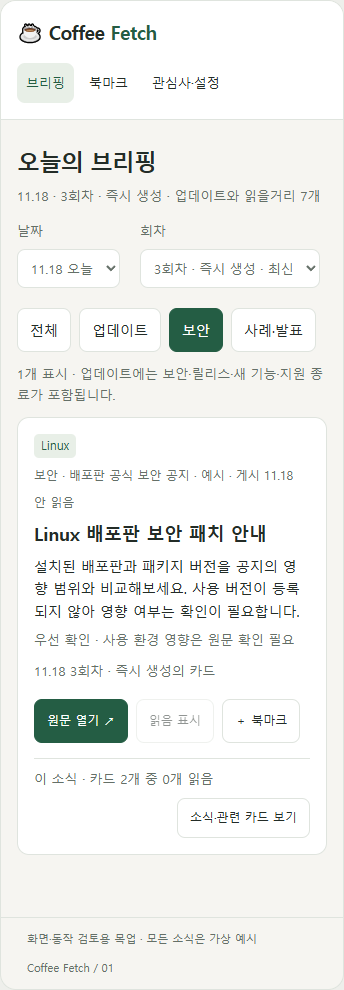
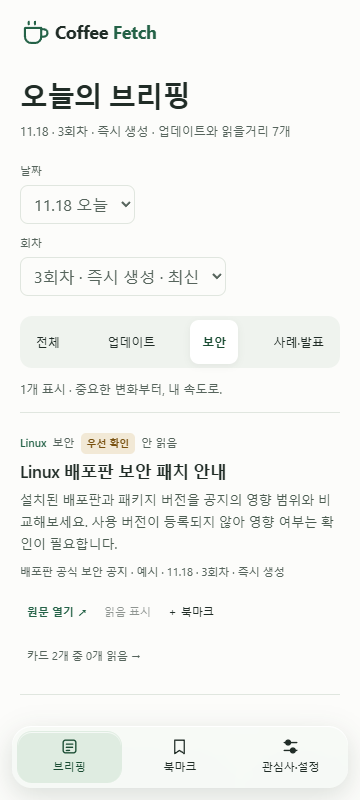
Refine briefing mockup and document design references

diff --git a/docs/product/mockup/index.html b/docs/product/mockup/index.html
@@ -1,12 +1,22 @@
-<!doctype html><html lang="ko"><head><meta charset="utf-8"><meta name="viewport" content="width=device-width,initial-scale=1"><title>Coffee Fetch 목업</title><style>:root{color-scheme:light}body{margin:0;padding:24px;background:#eeefeb}#coffee-fetch-flow{max-width:1024px;margin:auto}button{cursor:pointer}@media(max-width:540px){body{padding:8px}}</style></head><body><div id="coffee-fetch-flow" aria-label="Coffee Fetch 화면 목업">
-<style>
-#coffee-fetch-flow{--cf-bg:light-dark(#f6f5f1,#191b1a);--cf-paper:light-dark(#fff,#232624);--cf-ink:light-dark(#232c27,#e6ece7);--cf-dim:light-dark(#657068,#a5b2a9);--cf-line:light-dark(#dfe4de,#3d453f);--cf-green:light-dark(#245d44,#a7d8b8);--cf-on:light-dark(#fff,#193724);--cf-soft:light-dark(#e8efe7,#2c3b30);font:14px/1.6 system-ui,sans-serif;color:var(--cf-ink);background:var(--cf-bg);border:1px solid var(--cf-line);border-radius:16px;overflow:hidden}
-#coffee-fetch-flow *{box-sizing:border-box}#coffee-fetch-flow button,#coffee-fetch-flow select,#coffee-fetch-flow input{font:inherit;color:inherit}#coffee-fetch-flow button{background:var(--cf-paper);border:1px solid var(--cf-line);border-radius:8px;padding:8px 12px;min-height:40px}#coffee-fetch-flow button:hover{border-color:var(--cf-green)}#coffee-fetch-flow button:disabled{opacity:.5}#coffee-fetch-flow button.cf-primary{background:var(--cf-green);color:var(--cf-on);border-color:var(--cf-green)}#coffee-fetch-flow h1{font-size:27px;letter-spacing:-1px;line-height:1.3;margin:5px 0 9px;font-weight:600}#coffee-fetch-flow h2{font-size:18px;line-height:1.5;margin:8px 0;font-weight:600}#coffee-fetch-flow p{margin:0}#coffee-fetch-flow .cf-muted{color:var(--cf-dim);font-size:13px}#coffee-fetch-flow header{padding:18px 26px;border-bottom:1px solid var(--cf-line);display:flex;align-items:center;justify-content:space-between;gap:16px;flex-wrap:wrap;background:var(--cf-paper)}#coffee-fetch-flow .cf-brand{font-weight:650;font-size:19px;letter-spacing:-.5px}#coffee-fetch-flow .cf-brand span{color:var(--cf-green)}#coffee-fetch-flow nav{display:flex;flex-wrap:wrap;gap:6px}#coffee-fetch-flow nav button{border-color:transparent;background:transparent}#coffee-fetch-flow nav button[aria-current="page"]{background:var(--cf-soft);color:var(--cf-green)}#coffee-fetch-flow main{max-width:790px;margin:auto;padding:30px 26px 22px;min-height:540px}#coffee-fetch-flow .cf-topline{display:flex;align-items:center;justify-content:space-between;gap:14px;flex-wrap:wrap;margin-bottom:20px}#coffee-fetch-flow select,#coffee-fetch-flow input[type=time]{background:var(--cf-paper);border:1px solid var(--cf-line);border-radius:8px;padding:9px;max-width:100%}#coffee-fetch-flow .cf-overline{font-size:11px;letter-spacing:1.8px;font-weight:600;color:var(--cf-green)}#coffee-fetch-flow .cf-feed{display:grid;gap:13px}#coffee-fetch-flow article{padding:20px;background:var(--cf-paper);border:1px solid var(--cf-line);border-radius:12px}#coffee-fetch-flow .cf-meta{display:flex;gap:8px;align-items:center;flex-wrap:wrap;color:var(--cf-dim);font-size:12px}#coffee-fetch-flow .cf-tag{background:var(--cf-soft);color:var(--cf-green);border-radius:5px;padding:2px 7px}#coffee-fetch-flow .cf-status{margin-left:auto}#coffee-fetch-flow .cf-actions{display:flex;align-items:center;gap:8px;flex-wrap:wrap;margin-top:17px}#coffee-fetch-flow .cf-actions button{font-size:12px;min-height:36px}#coffee-fetch-flow .cf-actions button:last-child{margin-left:auto}#coffee-fetch-flow .cf-note{padding:12px 14px;border-left:3px solid var(--cf-green);background:var(--cf-soft);margin-bottom:18px;font-size:13px}#coffee-fetch-flow fieldset{border:0;padding:0;margin:0 0 26px}#coffee-fetch-flow legend{font-weight:600;margin-bottom:10px}#coffee-fetch-flow .cf-options{display:flex;flex-wrap:wrap;gap:8px}#coffee-fetch-flow .cf-options label{display:flex;gap:7px;align-items:center;border:1px solid var(--cf-line);background:var(--cf-paper);padding:8px 12px;border-radius:8px}#coffee-fetch-flow input{accent-color:var(--cf-green)}#coffee-fetch-flow .cf-fields{display:flex;gap:20px;flex-wrap:wrap}#coffee-fetch-flow .cf-fields label{display:grid;gap:7px}#coffee-fetch-flow .cf-empty{padding:48px 18px;text-align:center;background:var(--cf-paper);border-radius:12px}#coffee-fetch-flow footer{padding:12px 26px;border-top:1px solid var(--cf-line);display:flex;gap:12px;justify-content:space-between;flex-wrap:wrap;font-size:11px;color:var(--cf-dim)}#coffee-fetch-flow .cf-toast{color:var(--cf-green);min-height:26px;margin-top:14px;font-size:13px}#coffee-fetch-flow .cf-preview{padding:20px;border:1px dashed var(--cf-green);border-radius:12px;background:var(--cf-paper);margin-bottom:18px}#coffee-fetch-flow .cf-preview h2{margin-top:0}#coffee-fetch-flow[data-density="compact"] article{padding:13px 18px}#coffee-fetch-flow[data-density="compact"] .cf-actions{margin-top:9px}
-@media(max-width:540px){#coffee-fetch-flow header{padding:16px}#coffee-fetch-flow main{padding:22px 16px}#coffee-fetch-flow nav{width:100%}#coffee-fetch-flow nav button{padding:8px;font-size:13px}#coffee-fetch-flow article{padding:16px}#coffee-fetch-flow h1{font-size:23px}#coffee-fetch-flow .cf-status{margin-left:0}#coffee-fetch-flow .cf-actions button{min-height:44px}#coffee-fetch-flow .cf-actions button:last-child{margin-left:0}}
-#coffee-fetch-flow .cf-filters{display:flex;gap:8px;flex-wrap:wrap}#coffee-fetch-flow .cf-filters button[aria-pressed="true"]{background:var(--cf-green);color:var(--cf-on)}#coffee-fetch-flow :focus-visible{outline:2px solid var(--cf-green);outline-offset:3px}#coffee-fetch-flow .cf-filters button{min-height:44px}
-</style>
-<header><div class="cf-brand">☕ Coffee <span>Fetch</span></div><nav aria-label="주 메뉴"><button data-page="brief" aria-current="page">브리핑</button><button data-page="saved">북마크</button><button data-page="settings">관심사·설정</button></nav></header>
-<main><div id="cf-content"></div><div class="cf-toast" id="cf-toast" role="status" aria-live="polite"></div></main>
+<!doctype html><html lang="ko"><head><meta charset="utf-8"><meta name="viewport" content="width=device-width,initial-scale=1"><title>Coffee Fetch 목업</title><style>
+:root{color-scheme:light}body{margin:0;padding:24px;background:#e7ece7;font-family:Inter,-apple-system,BlinkMacSystemFont,"Segoe UI","Malgun Gothic",sans-serif}
+#coffee-fetch-flow{--cf-bg:#eef2ee;--cf-paper:#fcfcfa;--cf-ink:#202c26;--cf-dim:#56645c;--cf-line:#e0e6df;--cf-green:#246247;--cf-on:#fff;--cf-soft:#e4eee6;--cf-glass:rgba(249,252,249,.82);display:grid;grid-template-columns:196px minmax(0,1fr);max-width:1200px;margin:auto;min-height:840px;background:var(--cf-bg);color:var(--cf-ink);border-radius:24px;box-shadow:0 16px 56px #233a2614;font:14px/1.65 Inter,-apple-system,BlinkMacSystemFont,"Segoe UI","Malgun Gothic",sans-serif;isolation:isolate;overflow:clip}
+#coffee-fetch-flow *{box-sizing:border-box}#coffee-fetch-flow button,#coffee-fetch-flow select,#coffee-fetch-flow input{font:inherit;color:inherit}#coffee-fetch-flow button{cursor:pointer;border:1px solid transparent;background:transparent;border-radius:9px;min-height:36px;padding:6px 10px;touch-action:manipulation}#coffee-fetch-flow button:hover{background:var(--cf-soft)}#coffee-fetch-flow button:active{background:#d8e7dc}#coffee-fetch-flow button:disabled{opacity:.5;cursor:default}#coffee-fetch-flow :focus-visible{outline:2px solid var(--cf-green);outline-offset:3px}#coffee-fetch-flow ::selection{background:#cce4d3;color:#183d29}
+#coffee-fetch-flow header{grid-column:1;grid-row:1 / 3;padding:32px 16px;background:var(--cf-glass);backdrop-filter:blur(24px) saturate(130%);border-right:1px solid #fff;display:flex;flex-direction:column;gap:30px;align-items:stretch}
+#coffee-fetch-flow .cf-brand{display:flex;align-items:center;gap:9px;font-weight:650;letter-spacing:-.02em;font-size:18px;white-space:nowrap}#coffee-fetch-flow .cf-logo{width:30px;height:30px;color:var(--cf-green);flex-shrink:0}#coffee-fetch-flow .cf-brand span{color:var(--cf-green)}#coffee-fetch-flow nav{display:grid;gap:6px}#coffee-fetch-flow nav button{display:flex;align-items:center;gap:10px;text-align:left;padding:11px 12px;font-size:13px;font-weight:500;min-height:44px}#coffee-fetch-flow nav svg{width:18px;height:18px;flex:none}#coffee-fetch-flow nav [aria-current="page"]{background:#dfece1;color:#194b32;box-shadow:inset 0 1px 0 #ffffffb3}
+#coffee-fetch-flow .cf-side-section{border-top:1px solid var(--cf-line);padding:24px 12px 0}#coffee-fetch-flow .cf-side-section h2{font-size:12px;margin:0 0 14px;color:var(--cf-dim);font-weight:500}#coffee-fetch-flow .cf-side-section ul{list-style:none;margin:0;padding:0;color:var(--cf-dim);font-size:13px}#coffee-fetch-flow .cf-side-section li{padding:6px 0}#coffee-fetch-flow .cf-side-note{margin-top:auto;padding:24px 12px 0;color:var(--cf-dim);font-size:11px}
+#coffee-fetch-flow main{grid-column:2;min-width:0;padding:38px 36px 20px;background:var(--cf-paper);border-radius:22px 0 0 0;margin-top:12px}#coffee-fetch-flow h1{font-size:30px;line-height:1.3;letter-spacing:-.03em;margin:0 0 8px;font-weight:650;text-wrap:balance}#coffee-fetch-flow h2{font-size:17px;line-height:1.5;letter-spacing:-.02em;font-weight:600;margin:5px 0}#coffee-fetch-flow p{margin:0}#coffee-fetch-flow .cf-muted{font-size:12px;color:var(--cf-dim)}#coffee-fetch-flow .cf-topline{display:flex;justify-content:space-between;align-items:center;gap:16px;flex-wrap:wrap;margin-bottom:25px}
+#coffee-fetch-flow .cf-fields{display:flex;gap:10px;flex-wrap:wrap}#coffee-fetch-flow .cf-fields label{display:grid;gap:5px}#coffee-fetch-flow .cf-topline .cf-fields{padding:8px 10px;background:var(--cf-glass);border-radius:16px;box-shadow:0 3px 16px #223f2910,inset 0 1px 0 #fff;backdrop-filter:blur(18px)}#coffee-fetch-flow select,#coffee-fetch-flow input[type=time]{max-width:100%;background:var(--cf-paper);border:1px solid var(--cf-line);padding:7px 9px;border-radius:8px;min-height:36px;font-size:13px}#coffee-fetch-flow .cf-topline label{font-size:11px}#coffee-fetch-flow .cf-topline .cf-fields label{min-width:0}
+#coffee-fetch-flow .cf-filters{display:flex;gap:4px;flex-wrap:wrap;padding:4px;width:fit-content;background:#eff3ee;border-radius:12px}#coffee-fetch-flow .cf-filters button{font-size:12px;padding:6px 16px}#coffee-fetch-flow .cf-filters button[aria-pressed=true]{background:#fff;color:#194b32;box-shadow:0 2px 7px #243e2612;font-weight:600}
+#coffee-fetch-flow .cf-feed{display:grid;gap:0}#coffee-fetch-flow article{padding:20px 0;border-bottom:1px solid var(--cf-line);background:var(--cf-paper)}#coffee-fetch-flow article:first-child{border-top:1px solid var(--cf-line)}#coffee-fetch-flow .cf-meta{display:flex;align-items:center;gap:8px;flex-wrap:wrap;font-size:11px;color:var(--cf-dim)}#coffee-fetch-flow .cf-tag{font-weight:600;color:var(--cf-green)}#coffee-fetch-flow .cf-status{margin-left:auto;white-space:nowrap}#coffee-fetch-flow .cf-priority{font-size:10px;font-weight:600;border-radius:5px;padding:2px 6px;background:#f2e9d6;color:#78500e}#coffee-fetch-flow article>p{font-size:13px;line-height:1.7;color:#4b5c51;max-width:74ch}#coffee-fetch-flow .cf-card-foot{display:flex;gap:8px;align-items:center;flex-wrap:wrap;margin-top:10px}#coffee-fetch-flow .cf-card-foot .cf-actions{margin:0;display:flex;gap:2px;align-items:center;flex-wrap:wrap}#coffee-fetch-flow .cf-card-foot button{font-size:11px;min-height:32px;padding:4px 8px}#coffee-fetch-flow button.cf-primary{color:var(--cf-green);font-weight:600}#coffee-fetch-flow .cf-card-foot .cf-related{margin-left:auto;color:var(--cf-dim);font-weight:400}#coffee-fetch-flow .cf-card-foot button[aria-pressed=true]{background:var(--cf-soft);color:#194b32}#coffee-fetch-flow .cf-round-note{font-size:11px;color:var(--cf-dim);margin-top:8px}#coffee-fetch-flow .cf-actions{display:flex;gap:8px;align-items:center;flex-wrap:wrap;margin-top:18px}
+#coffee-fetch-flow .cf-note{padding:16px 18px;background:#eff4ed;border-radius:12px;margin:0 0 20px;font-size:13px}#coffee-fetch-flow .cf-note h2{margin-top:0}#coffee-fetch-flow .cf-preview{padding:18px;background:#eef4ee;border:1px solid #c7d8c9;border-radius:12px;margin-bottom:20px;font-size:13px}#coffee-fetch-flow fieldset{border:0;margin:0 0 30px;padding:0}#coffee-fetch-flow legend{font-size:14px;font-weight:600;margin-bottom:12px}#coffee-fetch-flow .cf-options{display:flex;gap:8px;flex-wrap:wrap}#coffee-fetch-flow .cf-options label{display:flex;gap:8px;align-items:center;border:1px solid var(--cf-line);border-radius:9px;padding:9px 12px;background:#fff;font-size:13px}#coffee-fetch-flow .cf-options label:has(:checked){border-color:#a6c6ad;background:#f0f6ef}#coffee-fetch-flow input{accent-color:var(--cf-green)}#coffee-fetch-flow form{max-width:680px}#coffee-fetch-flow form>button.cf-primary{background:var(--cf-green);color:var(--cf-on);padding:10px 22px}#coffee-fetch-flow .cf-empty{text-align:center;padding:50px 20px;color:var(--cf-dim)}#coffee-fetch-flow .cf-empty button{margin-top:16px}#coffee-fetch-flow .cf-toast{font-size:12px;color:var(--cf-green);min-height:22px;margin-top:12px}#coffee-fetch-flow footer{grid-column:2;display:flex;justify-content:space-between;gap:10px;flex-wrap:wrap;padding:14px 36px;background:var(--cf-paper);font-size:10px;color:var(--cf-dim)}#coffee-fetch-flow .cf-skip{position:absolute;left:16px;top:-80px;padding:10px;background:white;z-index:10}#coffee-fetch-flow .cf-skip:focus{top:16px}
+@media(max-width:850px){body{padding:12px}#coffee-fetch-flow{grid-template-columns:164px minmax(0,1fr)}#coffee-fetch-flow header{padding:26px 10px}#coffee-fetch-flow .cf-brand{font-size:16px;gap:5px}#coffee-fetch-flow main{padding:28px 24px 18px}#coffee-fetch-flow .cf-topline{align-items:flex-start}#coffee-fetch-flow h1{font-size:27px}}
+@media(max-width:600px){body{padding:0;background:var(--cf-paper,#fcfcfa)}#coffee-fetch-flow{display:block;border-radius:0;min-height:100vh;box-shadow:none;overflow:visible}#coffee-fetch-flow header{padding:18px 20px;background:var(--cf-paper);backdrop-filter:none;border:0;display:block}#coffee-fetch-flow .cf-brand{font-size:18px}#coffee-fetch-flow .cf-side-section,#coffee-fetch-flow .cf-side-note{display:none}#coffee-fetch-flow nav{position:fixed;bottom:max(12px,env(safe-area-inset-bottom));left:12px;right:12px;display:flex;justify-content:space-around;padding:5px;border-radius:20px;background:rgba(246,250,246,.92);box-shadow:0 8px 28px #1e392628,inset 0 1px 0 #fff;backdrop-filter:blur(20px) saturate(150%);z-index:5}#coffee-fetch-flow nav button{flex:1;justify-content:center;flex-direction:column;gap:2px;font-size:11px;padding:5px 6px;min-height:52px;border-radius:15px}#coffee-fetch-flow nav svg{width:19px;height:19px}#coffee-fetch-flow main{margin:0;padding:12px 20px 24px;border-radius:0}#coffee-fetch-flow h1{font-size:28px}#coffee-fetch-flow .cf-topline{gap:20px;margin-bottom:20px}#coffee-fetch-flow .cf-topline .cf-fields{width:100%;padding:0;background:transparent;box-shadow:none;backdrop-filter:none}#coffee-fetch-flow .cf-filters{width:100%;justify-content:space-between}#coffee-fetch-flow .cf-filters button{padding:6px 11px;min-height:44px}#coffee-fetch-flow article{padding:20px 0}#coffee-fetch-flow h2{font-size:17px}#coffee-fetch-flow .cf-card-foot{gap:4px}#coffee-fetch-flow .cf-card-foot button{min-height:44px;font-size:11px;padding:6px}#coffee-fetch-flow .cf-card-foot .cf-related{margin-left:0;min-height:36px}#coffee-fetch-flow footer{padding:12px 20px 110px}#coffee-fetch-flow select,#coffee-fetch-flow input[type=time]{font-size:16px}#coffee-fetch-flow .cf-status{margin-left:0}#coffee-fetch-flow .cf-meta{gap:6px}#coffee-fetch-flow .cf-round-note{line-height:1.5}}
+@media(prefers-reduced-transparency:reduce){#coffee-fetch-flow header,#coffee-fetch-flow nav,#coffee-fetch-flow .cf-topline .cf-fields{background:#f1f5f0;backdrop-filter:none}}@supports not (backdrop-filter:blur(1px)){#coffee-fetch-flow header,#coffee-fetch-flow nav{background:#f1f5f0}}
+</style></head><body><div id="coffee-fetch-flow" aria-label="Coffee Fetch 화면 목업">
+
+<a class="cf-skip" href="#cf-main">본문으로 이동</a><header><div class="cf-brand"><svg class="cf-logo" viewBox="0 0 24 24" fill="none" stroke="currentColor" stroke-width="1.7" stroke-linecap="round" stroke-linejoin="round" aria-hidden="true"><path d="M4 8h13v7a5 5 0 0 1-5 5H9a5 5 0 0 1-5-5Z"/><path d="M17 9h2a3 3 0 0 1 0 6h-2M7 3v2m5-2v2"/></svg><div>Coffee <span>Fetch</span></div></div><nav aria-label="주 메뉴"><button data-page="brief" aria-current="page"><svg viewBox="0 0 24 24" fill="none" stroke="currentColor" stroke-width="1.7" stroke-linecap="round" stroke-linejoin="round" aria-hidden="true"><rect x="4" y="4" width="16" height="16" rx="3"/><path d="M8 9h8m-8 4h8m-8 4h4"/></svg>브리핑</button><button data-page="saved"><svg viewBox="0 0 24 24" fill="none" stroke="currentColor" stroke-width="1.7" stroke-linecap="round" stroke-linejoin="round" aria-hidden="true"><path d="M6 4h12v17l-6-4-6 4Z"/></svg>북마크</button><button data-page="settings"><svg viewBox="0 0 24 24" fill="none" stroke="currentColor" stroke-width="1.7" stroke-linecap="round" stroke-linejoin="round" aria-hidden="true"><path d="M4 7h16M4 17h16"/><circle cx="9" cy="7" r="3" fill="currentColor"/><circle cx="15" cy="17" r="3" fill="currentColor"/></svg>관심사·설정</button></nav><section class="cf-side-section"><h2>나의 관심 기술</h2><ul id="cf-side-topics"></ul></section><div class="cf-side-note">나를 위한 기술 브리핑<br>가상 데이터로 보는 목업</div></header>
+<main id="cf-main"><div id="cf-content"></div><div class="cf-toast" id="cf-toast" role="status" aria-live="polite"></div></main>
 <footer><span>화면·동작 검토용 목업 · 모든 소식은 가상 예시</span><span>Coffee Fetch / 01</span></footer>
 <script>(()=>{
 const root=document.getElementById('coffee-fetch-flow'), content=root.querySelector('#cf-content');
@@ -36,10 +46,10 @@ const related=sid=>state.cards.filter(c=>c.sid===sid);
 function progress(sid){const all=related(sid),n=all.filter(c=>status(c.id)==='읽음').length;return `카드 ${all.length}개 중 ${n}개 읽음${all.length&&n===all.length?' · 다 읽음':''}`;}
 function persist(){window.openai?.setWidgetState?.({modelContent:{screen:state.page,readingRule:'카드별 읽음, 소식별 읽은 카드 수 집계',round:state.round},privateContent:state})?.catch(()=>{});}
 function toast(t){root.querySelector('#cf-toast').textContent=t;}
-function card(x){const read=status(x.id),r=round(x.round);return `<article data-kind="${x.kind}" data-card="${x.id}"><div class="cf-meta"><span class="cf-tag">${x.tag}</span><span>${x.type} · ${x.source} · 게시 ${x.date}</span><span class="cf-status">${read==='읽음'?'✓ ':read==='읽는 중'?'◔ ':''}${read}</span></div><h2>${x.title}</h2><p>${x.summary}</p>${x.priority?'<p class="cf-muted" style="margin-top:8px">우선 확인 · 사용 환경 영향은 원문 확인 필요</p>':''}<p class="cf-muted" style="margin-top:10px">${r.date} ${escape(r.label)}의 카드</p><div class="cf-actions"><button class="cf-primary" data-action="open" data-id="${x.id}">원문 열기 ↗</button><button data-action="read" data-id="${x.id}" ${read==='안 읽음'?'disabled':''}>${read==='읽음'?'읽음 취소':'읽음 표시'}</button><button data-action="bookmark" data-id="${x.id}" aria-pressed="${state.bookmarks.includes(x.id)}">${state.bookmarks.includes(x.id)?'✓ 북마크됨':'＋ 북마크'}</button></div><div style="border-top:1px solid var(--cf-line);margin-top:15px;padding-top:10px;display:flex;gap:8px;align-items:center;flex-wrap:wrap"><span class="cf-muted">이 소식 · ${progress(x.sid)}</span><button data-action="news" data-id="${x.sid}" style="margin-left:auto;font-size:12px">소식·관련 카드 보기</button></div></article>`;}
-function render(){root.dataset.density=ui.density;root.querySelectorAll('[data-page]').forEach(b=>{if(b.dataset.page===state.page)b.setAttribute('aria-current','page');else b.removeAttribute('aria-current');});
+function card(x){const read=status(x.id),r=round(x.round);return `<article data-kind="${x.kind}" data-card="${x.id}"><div class="cf-meta"><span class="cf-tag">${x.tag}</span><span>${x.type}</span>${x.priority?'<span class="cf-priority">우선 확인</span>':''}<span class="cf-status">${read==='읽음'?'✓ ':read==='읽는 중'?'◔ ':''}${read}</span></div><h2>${x.title}</h2><p>${x.summary}</p><div class="cf-round-note">${x.source} · ${x.date} · ${escape(r.label)}</div><div class="cf-card-foot"><div class="cf-actions"><button class="cf-primary" data-action="open" data-id="${x.id}">원문 열기 ↗</button><button data-action="read" data-id="${x.id}" ${read==='안 읽음'?'disabled':''}>${read==='읽음'?'읽음 취소':'읽음 표시'}</button><button data-action="bookmark" data-id="${x.id}" aria-pressed="${state.bookmarks.includes(x.id)}">${state.bookmarks.includes(x.id)?'✓ 북마크됨':'＋ 북마크'}</button></div><button class="cf-related" data-action="news" data-id="${x.sid}" aria-label="소식·관련 카드 보기">${progress(x.sid)} →</button></div></article>`;}
+function render(){root.dataset.density=ui.density;root.querySelector('#cf-side-topics').innerHTML=state.topics.map(t=>`<li>${escape(t)}</li>`).join('');root.querySelectorAll('[data-page]').forEach(b=>{if(b.dataset.page===state.page)b.setAttribute('aria-current','page');else b.removeAttribute('aria-current');});
 if(state.page==='settings'){
-content.innerHTML=`<div class="cf-topline"><div><h1>관심사·설정</h1><p class="cf-muted">관심 기술의 업데이트와 읽을거리를 한곳에서.</p></div></div><form id="cf-settings"><fieldset><legend>관심 분야·도구</legend><div class="cf-options">${['IT','DevOps','Cloud','AI','Observability','Linux','AWS','Kubernetes','OpenTelemetry','Prometheus','Grafana','Python'].map(t=>`<label><input type="checkbox" name="topic" value="${t}" ${state.topics.includes(t)?'checked':''}>${t}</label>`).join('')}</div></fieldset><fieldset><legend>브리핑 받기</legend><div class="cf-fields"><label>주기<select name="period">${['매일','평일','매주'].map(p=>`<option ${state.period===p?'selected':''}>${p}</option>`).join('')}</select></label><label>시각<input type="time" name="time" value="${escape(state.time)}" required></label><label>기본으로 펼칠 분량<select name="amount">${['3','5','10'].map(n=>`<option value="${n}" ${state.amount===n?'selected':''}>우선 ${n}개</option>`).join('')}</select></label></div></fieldset><fieldset><legend>변경한 관심사 적용</legend><label><input type="radio" name="apply" value="next" checked> 다음 브리핑부터</label><p class="cf-muted">현재 회차는 그대로 유지합니다.</p><label style="display:block;margin-top:12px"><input type="radio" name="apply" value="now"> 지금 적용</label><p class="cf-muted">새 회차를 만들고 표시합니다. 이전 회차·읽기 기록·북마크는 남습니다.</p></fieldset><button class="cf-primary" type="submit">설정 저장</button></form>`;return;}
+content.innerHTML=`<div class="cf-topline"><div><h1>관심사·설정</h1><p class="cf-muted">관심 기술의 업데이트와 읽을거리를 한곳에서.</p></div></div><form id="cf-settings" autocomplete="off"><fieldset><legend>관심 분야·도구</legend><div class="cf-options">${['IT','DevOps','Cloud','AI','Observability','Linux','AWS','Kubernetes','OpenTelemetry','Prometheus','Grafana','Python'].map(t=>`<label><input type="checkbox" name="topic" value="${t}" ${state.topics.includes(t)?'checked':''}>${t}</label>`).join('')}</div></fieldset><fieldset><legend>브리핑 받기</legend><div class="cf-fields"><label>주기<select name="period">${['매일','평일','매주'].map(p=>`<option ${state.period===p?'selected':''}>${p}</option>`).join('')}</select></label><label>시각<input type="time" name="time" value="${escape(state.time)}" required></label><label>기본으로 펼칠 분량<select name="amount">${['3','5','10'].map(n=>`<option value="${n}" ${state.amount===n?'selected':''}>우선 ${n}개</option>`).join('')}</select></label></div></fieldset><fieldset><legend>변경한 관심사 적용</legend><label><input type="radio" name="apply" value="next" checked> 다음 브리핑부터</label><p class="cf-muted">현재 회차는 그대로 유지합니다.</p><label style="display:block;margin-top:12px"><input type="radio" name="apply" value="now"> 지금 적용</label><p class="cf-muted">새 회차를 만들고 표시합니다. 이전 회차·읽기 기록·북마크는 남습니다.</p></fieldset><button class="cf-primary" type="submit">설정 저장</button></form>`;return;}
 let title='',sub='',controls='',body='';
 if(state.page==='news'){
 const src=sources.find(s=>s.id===state.news);title='소식과 관련 카드';sub=progress(src.id);
@@ -56,7 +66,7 @@ const limit=r.limit||all.length, base=all.slice(0,limit), hiddenUpdates=all.slic
 const visible=(state.filter==='all'&&!expanded?base:all).filter(matches);
 body=(state.pending?'<div class="cf-note">관심사 변경을 저장했습니다. 다음 브리핑부터 적용됩니다.</div>':'')+
 `<div class="cf-filters" role="group" aria-label="소식 유형">${[['all','전체'],['updates','업데이트'],['security','보안'],['stories','사례·발표']].map(([v,label])=>`<button data-action="filter" data-id="${v}" aria-pressed="${state.filter===v}">${label}</button>`).join('')}</div>
-<p class="cf-muted" style="margin:12px 0" role="status">${state.filter==='all'&&!expanded?`우선 ${visible.length}개 / 이번 회차 ${all.length}개`:`${visible.length}개 표시`} · 업데이트에는 보안·릴리스·새 기능·지원 종료가 포함됩니다.</p>
+<p class="cf-muted" style="margin:12px 0" role="status">${state.filter==='all'&&!expanded?`우선 ${visible.length}개 / 이번 회차 ${all.length}개`:`${visible.length}개 표시`} · 중요한 변화부터, 내 속도로.</p>
 <div class="cf-feed">${visible.map(card).join('')||'<div class="cf-empty"><h2>이 유형의 소식이 없습니다</h2><p>다른 유형을 선택하거나 전체 소식을 확인하세요.</p><button data-action="filter" data-id="all">전체 소식 보기</button></div>'}</div>
 ${state.filter==='all'&&!expanded&&all.length>limit?`<div class="cf-actions">${hiddenUpdates?`<button data-action="filter" data-id="updates">업데이트 더 보기 · ${hiddenUpdates}개 접힘</button>`:''}<button data-action="expand">이번 회차 전체 보기 · ${all.length}개</button></div>`:''}`;
 }

diff --git a/docs/product/design.md b/docs/product/design.md
@@ -1,0 +1,52 @@
+# Coffee Fetch 디자인 기준
+
+2026-11-18 · 제품 동작은 [제품 정의](definition.md), 시각 기준은 이 문서와 [목업](mockup/index.html)에서 관리합니다.
+
+## 방향
+
+Feedly처럼 빠르게 훑는 기술 소식 목록에 절제된 Liquid Glass 느낌을 더합니다. 브리핑은 읽기(Read), 설정은 작업(Operate) 중심입니다. 큰 장식이나 카드 테두리보다 제목·요약·출처의 위계가 먼저 보이게 합니다.
+
+- PC: 왼쪽 메뉴와 관심 기술 목록, 오른쪽 읽기 영역. 개별 카드는 얇은 구분선으로 나눕니다.
+- 모바일: 위쪽 브랜드, 아래 고정 메뉴. 본문과 메뉴가 겹치지 않도록 하단 여백을 둡니다.
+- 유리 소재: 탐색 메뉴와 날짜·회차 조작부에만 사용합니다. 소식 본문은 불투명한 배경을 유지합니다. 웹의 반투명·블러 표현이며 Apple의 네이티브 광학 효과를 그대로 구현한 것은 아닙니다.
+- 정보 순서: 기술·유형·우선 확인 → 제목 → 요약 → 출처·날짜·회차 → 원문·읽음·북마크·관련 카드.
+- 기능: 유형 필터, 과거 회차, 카드별 읽음·북마크, 소식별 읽기 집계를 유지합니다. 예시 자료는 가상임을 표시합니다.
+
+## 반복 사용할 값
+
+| 요소 | 기준 |
+|---|---|
+| 본문 배경 / 글자 | `#fcfcfa` / `#202c26` |
+| 보조 글자 / 구분선 | `#56645c` / `#e0e6df` |
+| 강조 / 선택 배경 | `#246247` / `#e4eee6` |
+| 우선 확인 | 옅은 황토색 배경과 텍스트. 색만으로 의미를 전달하지 않음 |
+| 글꼴 | 시스템 sans-serif, 한국어는 맑은 고딕 등 시스템 대체 글꼴. 외부 폰트 다운로드 없음 |
+| 크기 | PC 화면 제목 30px, 소식 제목 17px, 요약 13px, 보조 정보 11–12px |
+| 목록 간격 | 소식 상하 20px, 제목과 요약은 가까이 배치 |
+| 화면 폭 | 최대 1200px, PC 사이드바 196px, 600px 이하 하단 메뉴 |
+
+## 조작과 접근성
+
+| 조작 | 적용 |
+|---|---|
+| 유형 필터·화면 전환 | 반복 사용하므로 애니메이션 없이 즉시 전환. 선택 상태와 키보드 포커스 표시 |
+| 읽음·북마크 | 명시적 버튼과 상태 텍스트, 처리 결과 알림 |
+| 모바일 메뉴·주요 카드 동작 | 44px 이상 터치 영역, 하단 안전 영역 고려 |
+| 투명 효과 | 지원되지 않거나 투명도 감소 설정이면 불투명 배경 |
+| 설정 | 입력에 레이블, 저장 버튼은 흰 글자와 녹색 배경 |
+
+## 참고 사이트
+
+아래 공식 자료를 2026-11-18 확인했습니다. 이후 디자인 변경 시 재사용합니다.
+
+| 자료 | 참고한 내용 |
+|---|---|
+| [Feedly News Reader](https://feedly.com/news-reader) | 사이드바, 오늘의 피드, 빠른 제목 훑기와 목록 위계 |
+| [Reeder](https://reederapp.com/) | 하나의 타임라인, 필터와 저장 중심 정보 구조. 기능 설명 참고 |
+| [Apple HIG — Materials](https://developer.apple.com/design/human-interface-guidelines/materials) | Liquid Glass는 탐색·조작 계층에 제한하고 콘텐츠 읽기 영역과 구분 |
+| [Apple 새 소프트웨어 디자인 소개](https://www.apple.com/newsroom/2025/06/apple-introduces-a-delightful-and-elegant-new-software-design/) | 반투명 소재와 둥근 조작부의 시각 방향 |
+| [Vercel Web Interface Guidelines](https://github.com/vercel-labs/web-interface-guidelines/blob/main/command.md) | 포커스, 레이블, 터치, 반응형 구현 검토 |
+
+## 검증과 범위
+
+Windows Edge에서 PC·모바일 캡처를 확인했습니다. 320·360·768·1100px에서 주요 화면 가로 넘침, 360px 하단 메뉴 위치, 기존 필터·회차·읽음·북마크·재생성 동작 검사를 통과했습니다. 실제 iOS Safari와 실기기 사용성은 아직 검증하지 않았습니다. 현재 결과물은 목업이며 수집·서버·영속 저장 구현은 포함하지 않습니다.

diff --git a/docs/logs/work-log.md b/docs/logs/work-log.md
@@ -140,3 +140,11 @@
 - 디자인 검토: 기존 표현 유지. 필터는 자주 쓰는 조작이라 애니메이션을 추가하지 않고, 선택 상태·포커스를 표시. 전체 시각 디자인 변경은 이번 작업 범위 아님.
 - 자료: 목업은 가상 예시. 공식 업데이트 실수집·영향 판정 기능은 아직 구현하지 않음.
 - 실제 집중 시간: 미측정. WSL 접근 권한 확인 후 기존 저장소와 캡처 도구를 재사용.
+
+### 2026-11-18 / 목업 디자인 개선
+
+- 결과: 디자인 스킬로 Feedly 구조와 절제된 Liquid Glass 방향 반영. PC 사이드바·모바일 하단 메뉴, 목록 위계·색상·설정 화면 개선. 캡처 5개 갱신.
+- 자료: 디자인 기준 한 문서에 Feedly·Reeder·Apple 공식 레퍼런스와 재사용할 값을 보관. README·제품 정의에서 연결.
+- 검증: 기존 Playwright 동작 검사, 320·360·768·1100px 가로 넘침 검사 통과. 모바일 하단 메뉴 좌표 검사 추가. PC·모바일·설정 캡처 시각 확인.
+- 수정: 설정 저장 버튼 대비, 모바일 header의 backdrop-filter가 fixed 메뉴 위치에 미친 영향 해결. iOS Safari 실기기는 미검증.
+- 실제 집중 시간: 미측정. 병목: 반투명 효과의 레이아웃 부작용. 개선: 모바일 고정 메뉴 위치를 캡처 스크립트에서 검증.

diff --git a/docs/logs/token-usage.md b/docs/logs/token-usage.md
@@ -15,3 +15,5 @@
 | 2026-09-26 | 회차·카드별 읽음·소식 집계·북마크 정의 및 목업 갱신 | 547,519 tokens (편집 전 조회부터 종료 조회 시점까지·본 세션) |
 | 2026-09-26 | TypeScript·Python 선택과 구현 방향 기록 | 143,824 tokens (편집 전 조회부터 종료 조회 시점까지·본 세션) |
 | 2026-11-18 | 브리핑·기술 트래킹 통합 정의 및 목업 | 779,107 tokens (편집 전 조회부터 종료 조회 시점까지·본 세션) |
+
+| 2026-11-18 | 목업 디자인 개선·레퍼런스 정리 | 1,139,096 tokens (편집 전 조회부터 종료 조회 시점까지·본 세션, 사전 조사 제외) |

diff --git a/docs/product/definition.md b/docs/product/definition.md
@@ -32,6 +32,8 @@
 
 ## 화면과 동작
 
+2026-11-18 시각 개선: [디자인 기준·레퍼런스](design.md)에 따라 PC 사이드바, 모바일 하단 메뉴, 구분선 중심 목록과 제한된 유리 효과를 적용했습니다.
+
 2026-09-23 대화에서 검토한 목업을 첫 버전의 작업 기준으로 사용합니다. 화면 배치·스타일·메뉴 구성은 변경 가능한 초안입니다. 아래 동작을 유지하면서 화면 구성을 바꿀 수 있습니다. 목업 소식은 가상 예시이며 실제 수집·요약 품질을 검증한 결과는 아닙니다.
 
 ### 1. 브리핑

diff --git a/README.md b/README.md
@@ -30,6 +30,7 @@
 | 위치 | 역할 |
 |---|---|
 | [제품 정의](docs/product/definition.md) | 현재 목적·기능 범위·결정 |
+| [디자인 기준](docs/product/design.md) | 화면 스타일·조작 원칙·디자인 레퍼런스 |
 | [참고 사이트](docs/references/sites.md) | 다시 사용할 조사 출처 |
 | [행사 발표·로컬 LLM](docs/references/events-and-local-llm.md) | 추가 조사 자료 |
 | [과거 초안](docs/archive/README.md) | 초기 설계·목업·논의 보관. 현재 사양 아님 |
